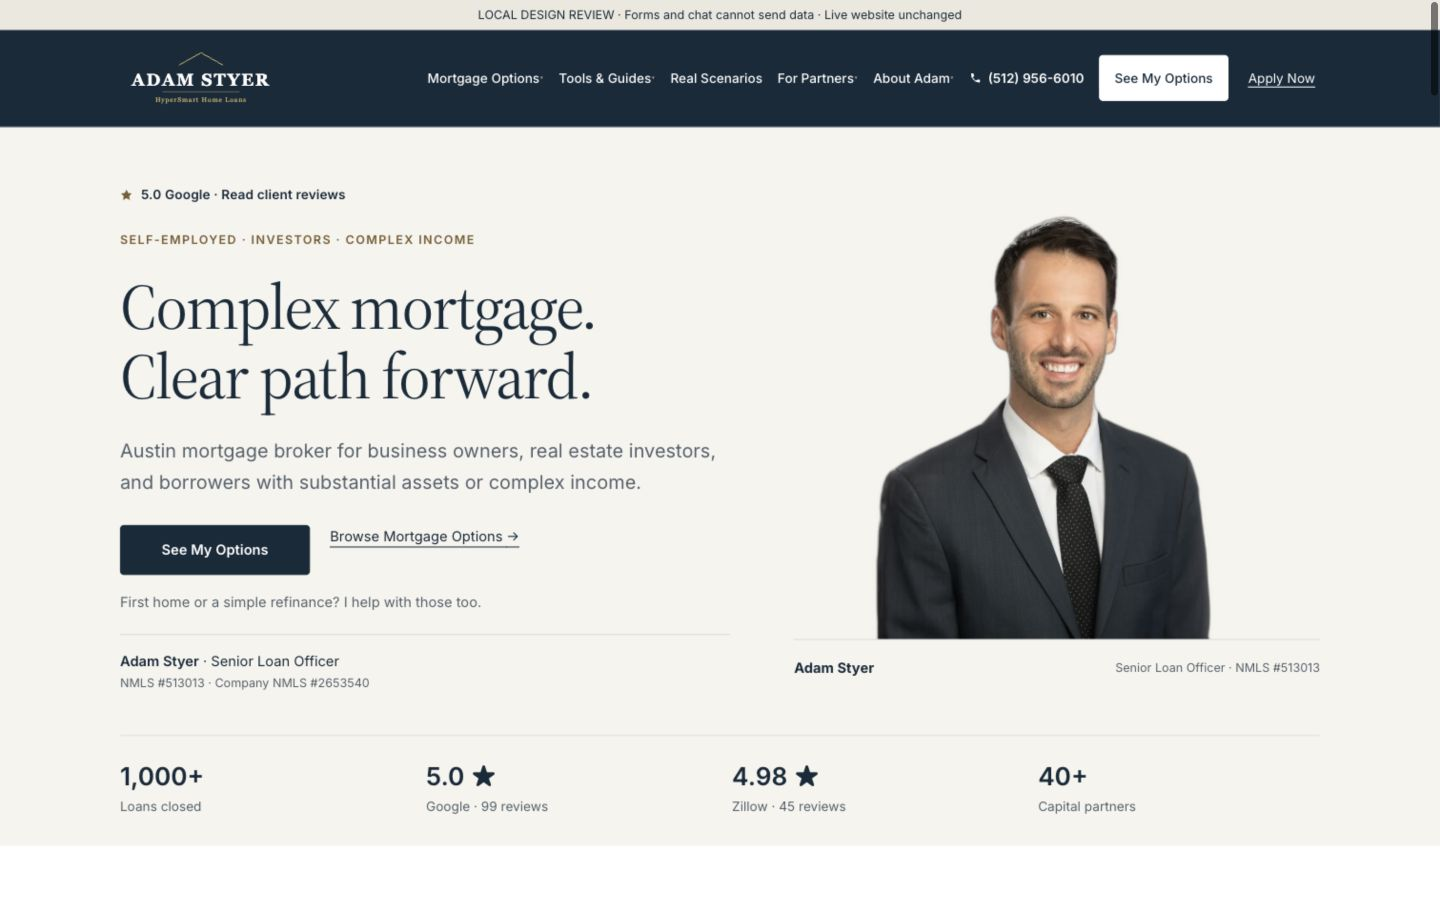
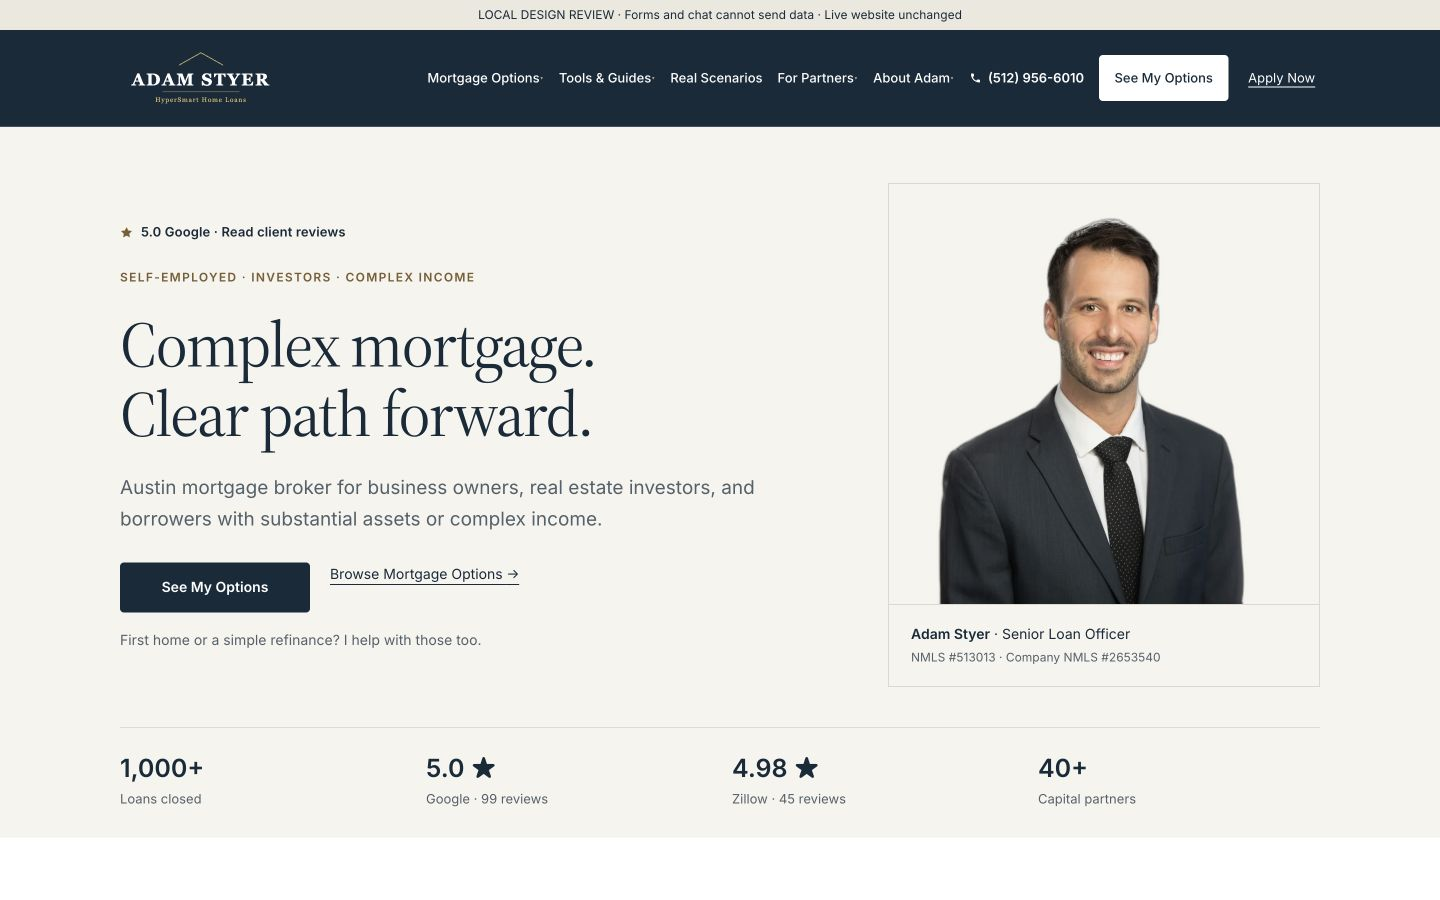
Rebalance homepage hero and consolidate portrait credentials

diff --git a/premium-homepage.css b/premium-homepage.css
@@ -27,9 +27,9 @@ body.premium-homepage>header .mobile-menu-toggle span{background:#fff}
 body.premium-homepage>header .mobile-menu-toggle{border:1px solid #8A989F;border-radius:4px;min-width:44px;min-height:44px;padding:10px}
 /* Content appears on first paint. No counters, marquees, parallax or reveal gates. */
 body.premium-homepage :is(.reveal,[data-animate],.testimonial-marquee-track){opacity:1!important;visibility:visible!important;transform:none!important;animation:none!important;transition:none!important}
-body.premium-homepage main .hero{padding:52px 0 40px;background:var(--premium-paper)!important;min-height:0;height:auto}
+body.premium-homepage main .hero{padding:56px 0 40px;background:var(--premium-paper)!important;min-height:0;height:auto}
 body.premium-homepage main .hero::before{display:none}
-body.premium-homepage main .home-hero-layout{display:grid;grid-template-columns:minmax(0,1.16fr) minmax(0,1fr);gap:64px;align-items:center}
+body.premium-homepage main .home-hero-layout{display:grid;grid-template-columns:minmax(0,1fr) 432px;gap:88px;align-items:center}
 body.premium-homepage main .hero-glass-card{padding:0;box-shadow:none;border:0;background:transparent;backdrop-filter:none}
 body.premium-homepage main .hero h1{font-size:64px;line-height:1.08;letter-spacing:-.028em;margin:20px 0 24px;max-width:650px;text-shadow:none;color:var(--premium-ink)}
 body.premium-homepage .modern-hero-accent{color:var(--premium-ink)}
@@ -46,9 +46,12 @@ body.premium-homepage .hero-signature{border-top:1px solid var(--premium-rule);p
 body.premium-homepage .hero-signature img{display:none}
 body.premium-homepage .hero-signature p{font-size:14px;line-height:1.5;margin:0}
 body.premium-homepage .hero-signature span{font-size:12px;color:var(--premium-muted)}
-.premium-portrait{margin:0;background:var(--premium-paper);align-self:end}
-.premium-portrait>img{display:block;width:100%;height:460px;object-fit:contain;object-position:center bottom;background:transparent}
-.premium-portrait figcaption{border-top:1px solid var(--premium-rule);padding:16px 0;display:flex;align-items:center;justify-content:space-between;gap:16px;font-size:14px;color:var(--premium-ink)}
+.premium-portrait{margin:0;width:100%;max-width:432px;background:var(--premium-paper);align-self:center;border:1px solid #DAD8D0}
+.premium-portrait>img{display:block;width:100%;height:420px;object-fit:contain;object-position:center bottom;background:transparent}
+.premium-portrait figcaption{border-top:1px solid #DAD8D0;padding:18px 22px;color:var(--premium-ink)}
+.premium-portrait .hero-signature{border:0!important;padding:0!important;margin:0!important}
+.premium-portrait .hero-signature p{font-size:14px!important;line-height:1.6!important}
+.premium-portrait .hero-signature span{font-size:12px!important}
 .premium-portrait figcaption span{font-size:12px;color:var(--premium-muted)}
 body.premium-homepage main .proof-band{background:var(--premium-paper)!important;padding:0 0 28px;border:0}
 body.premium-homepage .proof-band-grid{display:grid;grid-template-columns:repeat(4,1fr);border-top:1px solid var(--premium-rule);padding-top:24px;gap:24px}
@@ -180,13 +183,13 @@ body.premium-homepage .smb-btn{min-height:44px;border-radius:4px;font:600 14px/1
 body.premium-homepage .smb-btn-call{background:white;color:var(--premium-ink);border:1px solid var(--premium-control)}
 body.premium-homepage .smb-btn-apply{background:var(--premium-ink);color:white}
 @media(min-width:1281px){body.premium-homepage>header .nav-has-dropdown:focus-within>.nav-dropdown{display:block}}
-@media(max-width:1280px){body.premium-homepage>header .nav-links.active{background:white;max-height:calc(100dvh - 100px);overflow:auto;padding:16px 20px}body.premium-homepage>header .nav-links.active>li>a{color:var(--premium-ink)!important;font-size:16px;white-space:normal}body.premium-homepage>header .nav-links.active .nav-cta{background:var(--premium-ink)!important;color:white!important}body.premium-homepage>header .nav-dropdown{position:static;transform:none;border:0;border-left:1px solid var(--premium-rule);border-radius:0;box-shadow:none;margin:8px 0}.premium-homepage>header .nav-dropdown a{padding:12px 16px!important}body.premium-homepage main .home-hero-layout{gap:40px}body.premium-homepage main .hero h1{font-size:56px}}
-@media(max-width:1000px){body.premium-homepage main .home-hero-layout{gap:32px;grid-template-columns:1.1fr 1fr}body.premium-homepage main .hero h1{font-size:48px}.premium-portrait>img{height:420px}.premium-contact-grid,.premium-tools-grid{gap:40px}.premium-payment-fields{grid-template-columns:1fr 1fr}.premium-payment-fields>div:last-child{grid-column:1/-1}body.premium-homepage .said-no-grid{gap:24px}body.premium-homepage .testimonial-marquee-track{grid-template-columns:repeat(2,minmax(0,1fr))!important}body.premium-homepage .about-adam-grid{gap:40px}body.premium-homepage .site-footer-grid{grid-template-columns:1fr 1fr;gap:32px}}
-@media(max-width:760px){body.premium-homepage{font-size:17px}body.premium-homepage .container{padding-inline:20px}body.premium-homepage main>section,body.premium-homepage main :is(.modern-goals,.said-no,.home-reviews-section,.premium-contact,#faq){padding:52px 0}body.premium-homepage h2,body.premium-homepage .modern-section-heading h2,body.premium-homepage .said-no h2{font-size:32px;line-height:1.2}body.premium-homepage>header nav{min-height:76px;padding:14px 0}body.premium-homepage>header .nav-logo-img{width:150px;max-height:46px}body.premium-homepage main .hero{padding:32px 0 24px}body.premium-homepage main .home-hero-layout{grid-template-columns:1fr;gap:28px}body.premium-homepage main .hero h1{font-size:40px;line-height:1.1;max-width:100%;margin:18px 0 20px}body.premium-homepage main .hero-eyebrow{font-size:11px;letter-spacing:.06em}body.premium-homepage main .hero-rating-chip{font-size:12px;margin-bottom:18px}body.premium-homepage main .hero-subtitle{font-size:17px;line-height:1.6}body.premium-homepage main .hero-ctas{flex-direction:row;gap:12px;margin-top:24px;align-items:center;justify-content:start;width:100%}body.premium-homepage main .hero-cta-btn{width:auto;min-height:50px}body.premium-homepage main .modern-browse-link{font-size:14px}body.premium-homepage .modern-hero-detail{font-size:13px;margin:12px 0 16px}body.premium-homepage .hero-signature{padding-top:12px}body.premium-homepage .hero-signature p{font-size:14px}.premium-portrait>img{height:320px}.premium-portrait figcaption{display:none}body.premium-homepage .proof-band-grid{grid-template-columns:1fr 1fr;gap:20px;padding-top:20px}body.premium-homepage .proof-num{font-size:24px}body.premium-homepage .proof-label{font-size:12px}body.premium-homepage .recovery-specialty-grid{grid-template-columns:1fr}body.premium-homepage .recovery-specialty-grid article{padding:24px 0!important}body.premium-homepage .recovery-specialty-grid article+article{border-left:0;border-top:1px solid var(--premium-rule)}body.premium-homepage .modern-section-heading{margin-bottom:28px}body.premium-homepage .said-no-grid{grid-template-columns:1fr;gap:12px}body.premium-homepage .said-no-card h3{font-size:28px}body.premium-homepage .said-no-intro{font-size:17px;margin-bottom:28px}body.premium-homepage .said-no-note{font-size:12px}.premium-tools-grid,.premium-contact-grid{grid-template-columns:1fr;gap:32px}.premium-eyebrow{font-size:11px}.premium-lead{font-size:17px}.premium-payment{padding:20px}.premium-payment-heading h3{font-size:18px}.premium-payment-heading>span{font-size:11px}.premium-payment-result>strong{font-size:40px}.premium-payment-fields{gap:16px}.premium-payment-fields>div:last-child{grid-column:1/-1}body.premium-homepage .testimonial-marquee-track{grid-template-columns:1fr!important;gap:24px!important}body.premium-homepage .testimonial-marquee-card>p{font-size:23px!important}body.premium-homepage .review-aggregate-bar{gap:16px}body.premium-homepage .premium-contact-copy{padding-top:0}body.premium-homepage .premium-contact-copy h2{font-size:36px}.premium-contact-copy p:not(.premium-eyebrow){font-size:17px}body.premium-homepage main .home-conversation.journey-card{padding:20px}body.premium-homepage main .home-conversation .journey-fields{grid-template-columns:1fr;gap:20px}body.premium-homepage main .home-conversation .journey-consent{font-size:13px!important}body.premium-homepage .premium-guides .grid{grid-template-columns:1fr;gap:28px}body.premium-homepage .about-adam-grid{grid-template-columns:1fr;gap:32px}body.premium-homepage .about-adam-figure{max-width:100%}body.premium-homepage .about-adam-grid p{font-size:17px}body.premium-homepage main .home-service-area{padding:28px 0}body.premium-homepage .accordion-button{font-size:16px;padding:20px 0}body.premium-homepage .accordion-body{padding:0 0 24px}body.premium-homepage .site-footer-grid{grid-template-columns:1fr 1fr;gap:24px}body.premium-homepage .site-footer-contact{grid-column:1/-1}body.premium-homepage .site-footer-areas{line-height:2.1}body.premium-homepage .site-footer{padding:40px 0 100px}}
+@media(max-width:1280px){body.premium-homepage>header .nav-links.active{background:white;max-height:calc(100dvh - 100px);overflow:auto;padding:16px 20px}body.premium-homepage>header .nav-links.active>li>a{color:var(--premium-ink)!important;font-size:16px;white-space:normal}body.premium-homepage>header .nav-links.active .nav-cta{background:var(--premium-ink)!important;color:white!important}body.premium-homepage>header .nav-dropdown{position:static;transform:none;border:0;border-left:1px solid var(--premium-rule);border-radius:0;box-shadow:none;margin:8px 0}.premium-homepage>header .nav-dropdown a{padding:12px 16px!important}body.premium-homepage main .home-hero-layout{grid-template-columns:minmax(0,1.15fr) minmax(0,1fr);gap:40px}body.premium-homepage main .hero h1{font-size:56px}}
+@media(max-width:1000px){body.premium-homepage main .home-hero-layout{gap:32px;grid-template-columns:1.1fr 1fr}body.premium-homepage main .hero h1{font-size:48px}.premium-portrait>img{height:380px}.premium-contact-grid,.premium-tools-grid{gap:40px}.premium-payment-fields{grid-template-columns:1fr 1fr}.premium-payment-fields>div:last-child{grid-column:1/-1}body.premium-homepage .said-no-grid{gap:24px}body.premium-homepage .testimonial-marquee-track{grid-template-columns:repeat(2,minmax(0,1fr))!important}body.premium-homepage .about-adam-grid{gap:40px}body.premium-homepage .site-footer-grid{grid-template-columns:1fr 1fr;gap:32px}}
+@media(max-width:760px){body.premium-homepage{font-size:17px}body.premium-homepage .container{padding-inline:20px}body.premium-homepage main>section,body.premium-homepage main :is(.modern-goals,.said-no,.home-reviews-section,.premium-contact,#faq){padding:52px 0}body.premium-homepage h2,body.premium-homepage .modern-section-heading h2,body.premium-homepage .said-no h2{font-size:32px;line-height:1.2}body.premium-homepage>header nav{min-height:76px;padding:14px 0}body.premium-homepage>header .nav-logo-img{width:150px;max-height:46px}body.premium-homepage main .hero{padding:32px 0 24px}body.premium-homepage main .home-hero-layout{grid-template-columns:1fr;gap:28px}body.premium-homepage main .hero h1{font-size:40px;line-height:1.1;max-width:100%;margin:18px 0 20px}body.premium-homepage main .hero-eyebrow{font-size:11px;letter-spacing:.06em}body.premium-homepage main .hero-rating-chip{font-size:12px;margin-bottom:18px}body.premium-homepage main .hero-subtitle{font-size:17px;line-height:1.6}body.premium-homepage main .hero-ctas{flex-direction:row;gap:12px;margin-top:24px;align-items:center;justify-content:start;width:100%}body.premium-homepage main .hero-cta-btn{width:auto;min-height:50px}body.premium-homepage main .modern-browse-link{font-size:14px}body.premium-homepage .modern-hero-detail{font-size:13px;margin:12px 0 16px}body.premium-homepage .hero-signature{padding-top:12px}body.premium-homepage .hero-signature p{font-size:14px}.premium-portrait{max-width:350px}.premium-portrait>img{height:320px}.premium-portrait figcaption{padding:14px 18px}body.premium-homepage .proof-band-grid{grid-template-columns:1fr 1fr;gap:20px;padding-top:20px}body.premium-homepage .proof-num{font-size:24px}body.premium-homepage .proof-label{font-size:12px}body.premium-homepage .recovery-specialty-grid{grid-template-columns:1fr}body.premium-homepage .recovery-specialty-grid article{padding:24px 0!important}body.premium-homepage .recovery-specialty-grid article+article{border-left:0;border-top:1px solid var(--premium-rule)}body.premium-homepage .modern-section-heading{margin-bottom:28px}body.premium-homepage .said-no-grid{grid-template-columns:1fr;gap:12px}body.premium-homepage .said-no-card h3{font-size:28px}body.premium-homepage .said-no-intro{font-size:17px;margin-bottom:28px}body.premium-homepage .said-no-note{font-size:12px}.premium-tools-grid,.premium-contact-grid{grid-template-columns:1fr;gap:32px}.premium-eyebrow{font-size:11px}.premium-lead{font-size:17px}.premium-payment{padding:20px}.premium-payment-heading h3{font-size:18px}.premium-payment-heading>span{font-size:11px}.premium-payment-result>strong{font-size:40px}.premium-payment-fields{gap:16px}.premium-payment-fields>div:last-child{grid-column:1/-1}body.premium-homepage .testimonial-marquee-track{grid-template-columns:1fr!important;gap:24px!important}body.premium-homepage .testimonial-marquee-card>p{font-size:23px!important}body.premium-homepage .review-aggregate-bar{gap:16px}body.premium-homepage .premium-contact-copy{padding-top:0}body.premium-homepage .premium-contact-copy h2{font-size:36px}.premium-contact-copy p:not(.premium-eyebrow){font-size:17px}body.premium-homepage main .home-conversation.journey-card{padding:20px}body.premium-homepage main .home-conversation .journey-fields{grid-template-columns:1fr;gap:20px}body.premium-homepage main .home-conversation .journey-consent{font-size:13px!important}body.premium-homepage .premium-guides .grid{grid-template-columns:1fr;gap:28px}body.premium-homepage .about-adam-grid{grid-template-columns:1fr;gap:32px}body.premium-homepage .about-adam-figure{max-width:100%}body.premium-homepage .about-adam-grid p{font-size:17px}body.premium-homepage main .home-service-area{padding:28px 0}body.premium-homepage .accordion-button{font-size:16px;padding:20px 0}body.premium-homepage .accordion-body{padding:0 0 24px}body.premium-homepage .site-footer-grid{grid-template-columns:1fr 1fr;gap:24px}body.premium-homepage .site-footer-contact{grid-column:1/-1}body.premium-homepage .site-footer-areas{line-height:2.1}body.premium-homepage .site-footer{padding:40px 0 100px}}
 @media(max-width:360px){body.premium-homepage .container{padding-inline:16px}body.premium-homepage main .hero h1{font-size:36px}body.premium-homepage main .hero-ctas{flex-direction:column;align-items:stretch}body.premium-homepage main .hero-cta-btn{width:100%}body.premium-homepage main .modern-browse-link{justify-content:center}.premium-payment-fields{grid-template-columns:1fr}.premium-payment-fields>div:last-child{grid-column:auto}.premium-payment-heading{align-items:start;flex-direction:column;gap:4px}body.premium-homepage .site-footer-grid{grid-template-columns:1fr}body.premium-homepage .site-footer-contact{grid-column:auto}}
 @media(prefers-reduced-motion:reduce){body.premium-homepage *{scroll-behavior:auto!important;animation:none!important;transition:none!important}}
 /* Resolve the legacy shared sheet's homepage-only dimensions explicitly. */
-body.premium-homepage.home-pilot main .hero>.container{width:100%;max-width:1256px;padding-inline:28px}
+body.premium-homepage.home-pilot main .hero>.container{width:100%;max-width:1256px;padding-inline:28px;margin-inline:auto!important}
 body.premium-homepage.home-pilot main .hero-glass-card{width:100%;max-width:none!important}
 body.premium-homepage.home-pilot main .hero h1{font-size:64px!important;line-height:1.08!important;letter-spacing:-.028em!important}
 body.premium-homepage.home-pilot main .hero-ctas{margin-top:28px!important;margin-bottom:0!important}
@@ -217,3 +220,11 @@ body.premium-homepage .mortgage-assistant{bottom:calc(92px + env(safe-area-inset
 body.premium-homepage .testimonial-marquee-card>p.review-proof-links{font:500 13px/1.5 var(--font-primary)!important;margin:16px 0 0!important;flex:0!important}
 body.premium-homepage .site-footer a{font-size:14px}
 body.premium-homepage .site-footer :is(.site-footer-proof,.site-footer-areas,.site-footer-legal),body.premium-homepage .site-footer :is(.site-footer-proof,.site-footer-areas,.site-footer-legal) a,body.premium-homepage .site-footer-legal p{font-size:13px}
+
+/* Hero composition: shared center, compact message, one portrait identity. */
+body.premium-homepage main .hero-col-authority{width:100%;max-width:640px;justify-self:start}
+body.premium-homepage main .hero-authority-inner{width:100%;max-width:none}
+body.premium-homepage main .hero-subtitle{max-width:565px}
+body.premium-homepage main .modern-hero-detail{margin-bottom:0}
+@media(min-width:761px) and (max-width:1000px){body.premium-homepage main .home-hero-layout{grid-template-columns:minmax(0,1.22fr) minmax(0,1fr);gap:28px}body.premium-homepage.home-pilot main .hero h1{font-size:clamp(37px,4.8vw,48px)!important}.premium-portrait>img{height:340px}.premium-portrait figcaption{padding:14px}}
+@media(max-width:760px){body.premium-homepage main .home-hero-layout{gap:32px}.premium-portrait{margin-inline:auto;justify-self:center}body.premium-homepage main .hero-col-authority{justify-self:center}.premium-portrait .hero-signature{display:block}}

diff --git a/index.html b/index.html
@@ -349,10 +349,9 @@
                 <a href="/products.html" class="modern-browse-link" data-track="browse_loan_programs_click">Browse Mortgage Options <span aria-hidden="true">→</span></a>
               </div>
               <p class="modern-hero-detail">First home or a simple refinance? I help with those too.</p>
-              <div class="hero-signature"><img src="/assets/adam-casual-avatar.webp" width="400" height="400" alt="Adam Styer" decoding="async"><p><strong>Adam Styer</strong> · Senior Loan Officer<br><span>NMLS #513013 · Company NMLS #2653540</span></p></div>
           </div>
 
-          <figure class="premium-portrait"><img src="/assets/adam-cutout-900.webp" width="900" height="900" alt="Adam Styer, Austin mortgage broker and Senior Loan Officer" fetchpriority="high" decoding="async"><figcaption><strong>Adam Styer</strong><span>Senior Loan Officer · NMLS #513013</span></figcaption></figure>
+          <figure class="premium-portrait"><img src="/assets/adam-cutout-900.webp" width="900" height="900" alt="Adam Styer, Austin mortgage broker and Senior Loan Officer" fetchpriority="high" decoding="async"><figcaption><div class="hero-signature"><img src="/assets/adam-casual-avatar.webp" width="400" height="400" alt="Adam Styer" decoding="async"><p><strong>Adam Styer</strong> · Senior Loan Officer<br><span>NMLS #513013 · Company NMLS #2653540</span></p></div></figcaption></figure>
         </div>
       </div>
     </section>

diff --git a/design-review/Implementation-Brief.md b/design-review/Implementation-Brief.md
@@ -33,7 +33,7 @@ No changes to existing capture functions, routing, application portal, assistant
 ## Final homepage composition
 
 1. **Navigation.** Keep every parent/child destination, current logo, phone, inquiry, partner links, and secure Apply Now action. Solid navy, readable labels, restrained buttons. Preserve the existing mobile menu owner. Desktop submenu focus and Escape behavior are added locally to this homepage.
-2. **Hero.** Keep the exact H1, audience and subhead. Use See My Options as the primary action and Browse Mortgage Options as the secondary. Put Adam's role and NMLS identifiers next to the message. Authentic, uncropped-proportion suit portrait on ivory; no generated identity. Mobile message, actions, and identity precede the portrait.
+2. **Hero.** Keep the exact H1, audience and subhead. Use See My Options as the primary action and Browse Mortgage Options as the secondary. Use a centered two-column grid with equal outer gutters and vertically aligned column centers. At wide desktop widths, reserve a 432px portrait column with an 88px gap; scale the columns for tablets and stack on mobile. Keep one identity/NMLS block in the portrait caption, inside a restrained square-corner frame on the same ivory background. Authentic, uncropped-proportion suit portrait; no generated identity. Mobile message and actions precede the portrait and its credentials.
 3. **Proof.** Preserve the current site's 1,000+, Google 5.0/99, Zillow 4.98/45 and 40+ claims with their source links. Present static numbers. These are retained published claims, not independently substantiated by this visual work.
 4. **Mortgage paths.** Three editorial columns: business/self-employed, assets/complex income, investors. Preserve all nine specialist links and the traditional mortgage, home-equity and buy-before-sell links. Stack with separators on mobile.
 5. **Real scenarios.** Deep ink background and three clear stories. Preserve every problem, approach, outcome and the composite/underwriting disclosure. No invented client or outcome.
@@ -50,7 +50,7 @@ No changes to existing capture functions, routing, application portal, assistant
 
 Ink `#142B3A`; deep `#0E202C`; ivory `#F6F4EE`; white `#FFFFFF`; body `#263844`; secondary `#52616B`; text brass `#795D31`; decorative brass `#A8864E`; border `#D8DCD9`; input boundary `#7B878D`; focus `#176B73`; error `#A63B32`.
 
-Source Serif 4 for display headings and testimonial quotations, Inter for body and UI. Existing self-hosted serif files are reused. Desktop hero 64px, mobile 40px/36px at 320; section titles 40px/32px; body 17–19px; input text 16px. Primary content: 1200px usable width within 1256px including 28px gutters; mobile 20px, 16px at 320. Section spacing 80px desktop/52px mobile. Buttons 50px and 4px corners; input controls 48px; real panels 6px corners. Full design system, loan/article/tool families, imagery rules and references are in Design-Strategy.md.
+Source Serif 4 for display headings and testimonial quotations, Inter for body and UI. Existing self-hosted serif files are reused. Desktop hero 64px, tablet 37–48px below 1000px, mobile 40px/36px at 320; section titles 40px/32px; body 17–19px; input text 16px. Primary content: 1200px usable width within 1256px including 28px gutters; mobile 20px, 16px at 320. Section spacing 80px desktop/52px mobile. Buttons 50px and 4px corners; input controls 48px; real panels 6px corners. Full design system, loan/article/tool families, imagery rules and references are in Design-Strategy.md.
 
 No glass, blobs, decorative moving backgrounds, oversized pill cards, autoplay carousel or page-intro gate. Content is visible on first paint. Hover changes are short color/border changes. Existing reveal decorations are neutralized only on the homepage. Reduced motion remains supported.
 

diff --git a/design-review/Verification.md b/design-review/Verification.md
@@ -23,12 +23,12 @@ Metadata/canonical/JSON-LD, header, footer, FAQ and the inquiry form were checke
 | --- | --- | --- | --- |
 | 320px | 36px | None | 6 |
 | 390px | 40px | None | 6 |
-| 768px | 48px | None | 6 |
+| 768px | 37px | None | 6 |
 | 1024px | 56px | None | 6 |
 | 1280px | 56px | None | 6 |
 | 1440px | 64px | None | 6 |
 
-At 390×844, primary hero CTA ends at y=530px and identity/NMLS at y=695px, including the preview-only banner and navigation. Message and identity precede the portrait. The mobile contact bar is one shared Call/Text/inquiry bar, with the inquiry targeting the original inline contact form. It hides while form inputs have focus.
+After the hero alignment revision, at 390×844 the primary hero CTA ends at y=530px, including the preview-only banner and navigation. Message and actions precede the portrait; one identity/NMLS caption is placed beneath the portrait. Equal outer grid margins were verified at 320, 390, 768, 1024, 1280, 1440 and 1920px. Desktop column centers match within 0.004px; the mobile columns stack intentionally. No horizontal overflow at any checked width. The targeted preservation/lead-flow/editorial suite passed again: 35 checks. The full-suite result above predates this presentation-only revision. The mobile contact bar is one shared Call/Text/inquiry bar, with the inquiry targeting the original inline contact form. It hides while form inputs have focus.
 
 Mobile menu opens; its mortgage submenu expands; Escape closes the menu. Desktop Tab exposes the submenu, and Escape closes it and returns focus to its parent. FAQ opens with matching visible/ARIA state. Clicking the hero inquiry focuses `#contact-form`. Original CTA source/label fields remain present and are updated by the existing handler.
 
